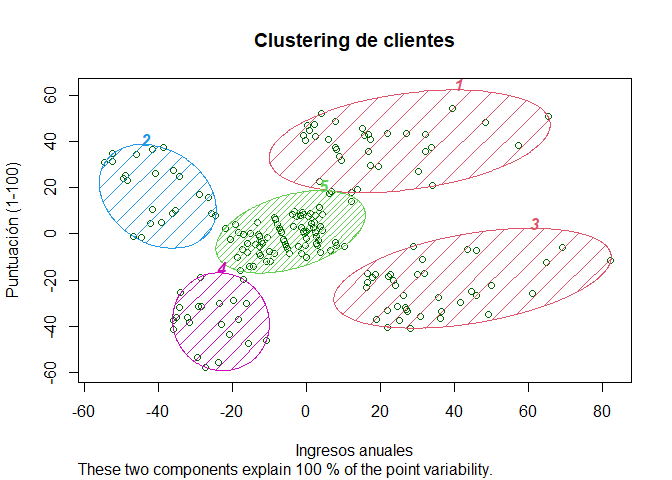
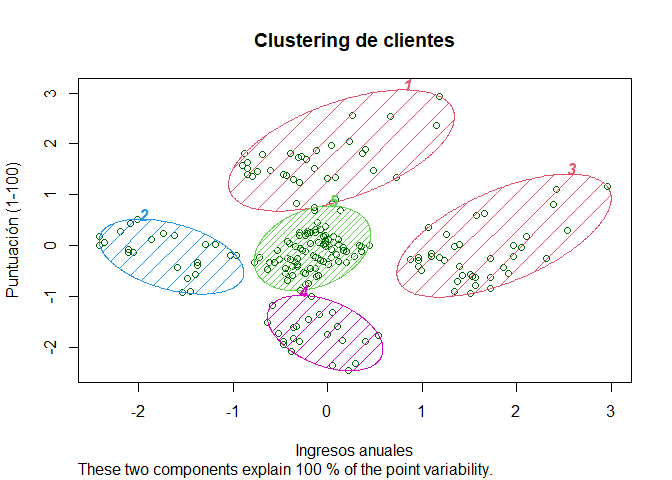
19/02/2021 15:24

diff --git a/0. Clases/6.-Analisis-Multivariado.md b/0. Clases/6.-Analisis-Multivariado.md
@@ -23,32 +23,32 @@ Es una base de datos simples, en donde tenemos:
     cercano al 100, lo hace un mejor cliente de la tienda.
 
 Para este ejercicio, solo vamos a utilizar las dos ultimas variables,
-las seleccionamos:
+las seleccionamos. De igual manera, y no menos importante, tenemos que
+estandarizar nuestros datos, esto lo lograremos con la funcion scale(),
+que tambien puede ser aplicada directamente con dplyr y los pipe
+**%&gt;%**:
 
 ``` r
 library(tidyverse)
 ```
 
-    ## Warning: package 'tidyverse' was built under R version 4.0.3
-
-    ## -- Attaching packages --------------------------------------------------- tidyverse 1.3.0 --
+    ## -- Attaching packages --------------------------------------------------------------- tidyverse 1.3.0 --
 
     ## v ggplot2 3.3.3     v purrr   0.3.4
     ## v tibble  3.0.0     v dplyr   1.0.3
     ## v tidyr   1.0.2     v stringr 1.4.0
     ## v readr   1.3.1     v forcats 0.5.0
 
-    ## Warning: package 'ggplot2' was built under R version 4.0.3
-
-    ## Warning: package 'dplyr' was built under R version 4.0.3
-
-    ## -- Conflicts ------------------------------------------------------ tidyverse_conflicts() --
+    ## -- Conflicts ------------------------------------------------------------------ tidyverse_conflicts() --
     ## x dplyr::filter() masks stats::filter()
     ## x dplyr::lag()    masks stats::lag()
 
 ``` r
-Clientes.Agrupamiento <- Clientes %>% select(Annual.Income..k.., Spending.Score..1.100.)
+Clientes.Agrupamiento <- Clientes %>% select(Annual.Income..k.., Spending.Score..1.100.) %>% scale() %>% as.data.frame() 
 ```
+
+Como alternativa, tambien podria utilizar la función normalize() del
+paquete **BBmisc** para normalizar los datos (estandarizarlos).
 
 Vamos ahora a utilizar un dendograma, para encontrar el número óptimo de
 clusters. Para crear un agrupamiento con el método jerárquico de
@@ -69,8 +69,6 @@ paquete especial:
 ``` r
 library(ggdendro)
 ```
-
-    ## Warning: package 'ggdendro' was built under R version 4.0.3
 
 Visualizamos el dendograma, utilizando la función **ggdendrogram()**:
 
@@ -105,11 +103,7 @@ paquete **“cluster”** y específicamente la función **clusplot()**.
 
 ``` r
 library(cluster)
-```
 
-    ## Warning: package 'cluster' was built under R version 4.0.4
-
-``` r
 clusplot(Clientes.Agrupamiento, 
          Corte.Arbol.Clientes,
          lines = 0,
